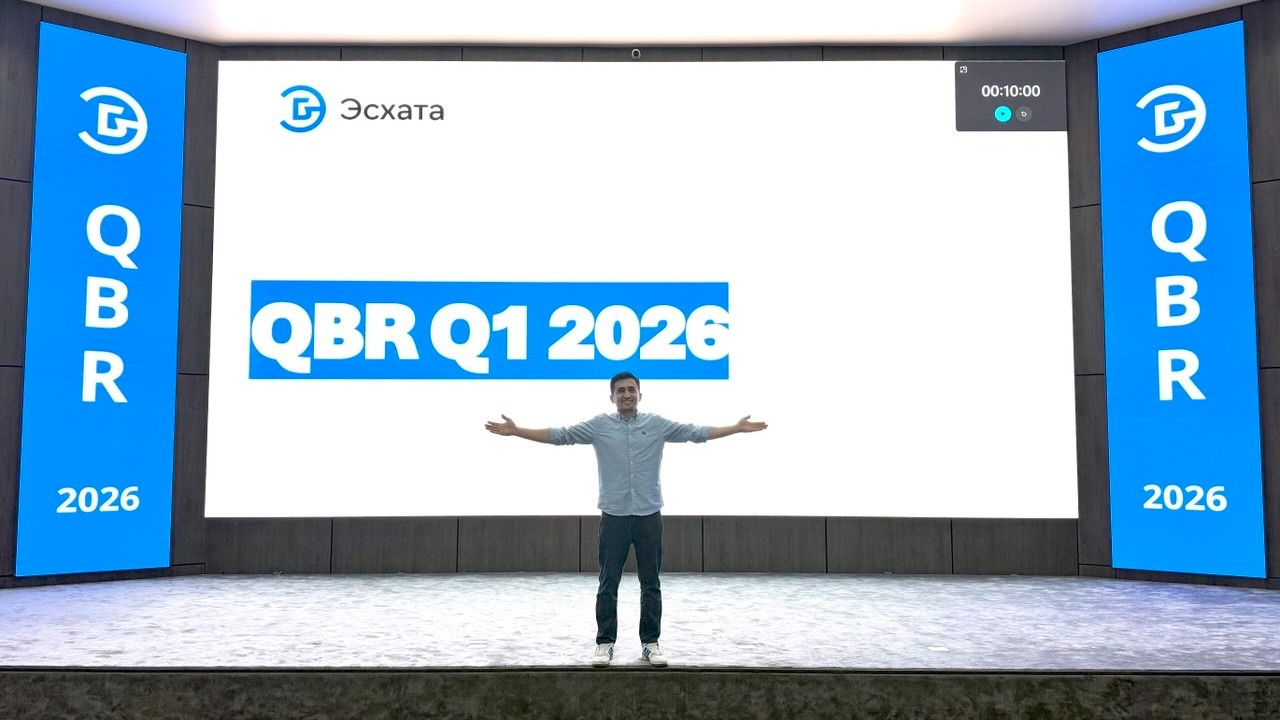
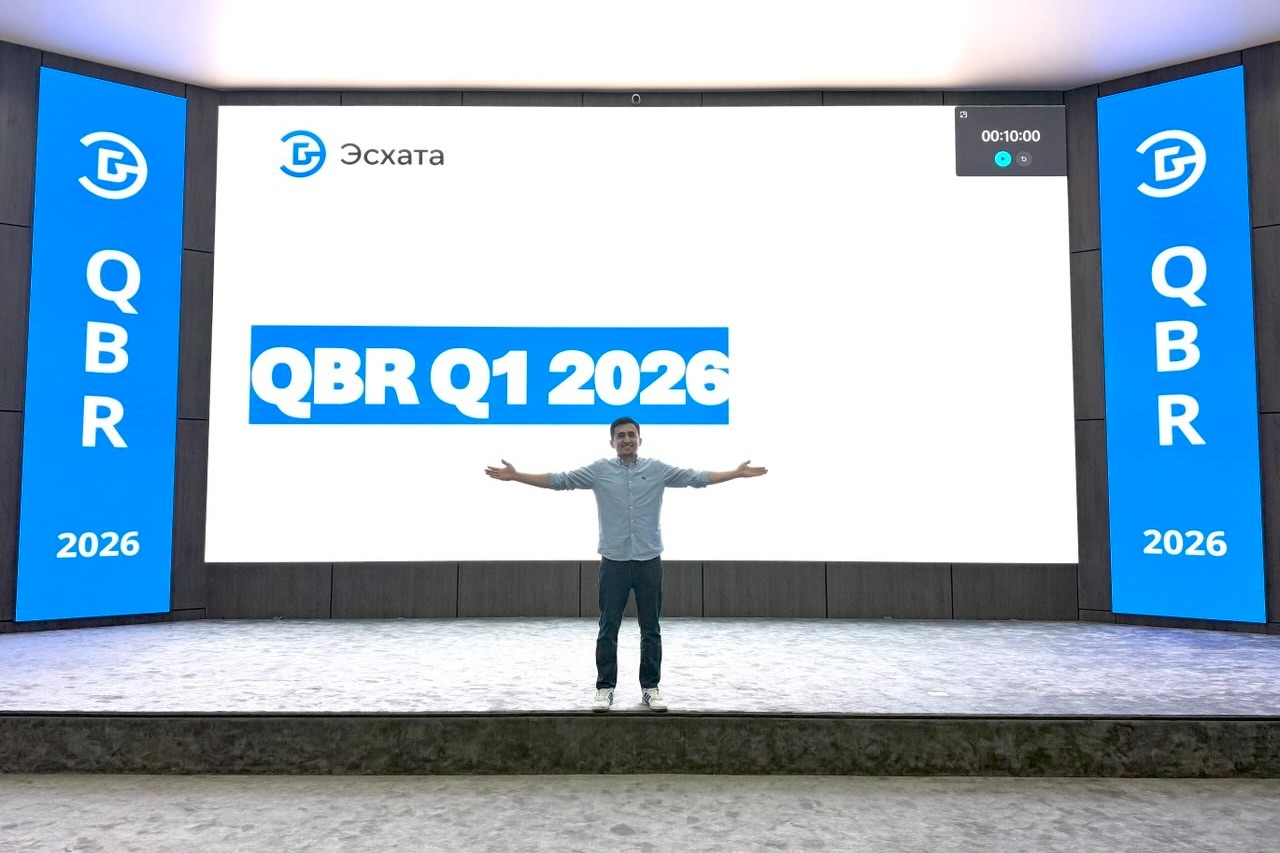
Фото QBR сбоку от текста, горизонтальное 3:2

diff --git a/index.html b/index.html
@@ -60,9 +60,9 @@ section { padding: 72px 0; border-top: 1px solid var(--line); }
 
 /* Первый экран */
 .hero { padding: 64px 0 56px; border-top: 0; }
-.hero-grid { display: grid; grid-template-columns: 1fr; gap: 40px; align-items: start; }
-.portrait { margin: 0; position: relative; grid-column: 1 / -1; }
-.portrait img { display: block; width: 100%; height: auto; aspect-ratio: 16 / 9; object-fit: cover; border-radius: 28px; box-shadow: 0 24px 50px rgba(26,45,41,.18); }
+.hero-grid { display: grid; grid-template-columns: 1fr 1fr; gap: 40px 48px; align-items: start; }
+.portrait { margin: 0; position: relative; align-self: center; }
+.portrait img { display: block; width: 100%; height: auto; aspect-ratio: 3 / 2; object-fit: cover; border-radius: 28px; box-shadow: 0 24px 50px rgba(26,45,41,.18); }
 .portrait figcaption { position: absolute; left: 14px; bottom: 14px; font-size: 13px; background: color-mix(in srgb, var(--surface) 88%, transparent); color: var(--ink); padding: 5px 12px; border-radius: 999px; backdrop-filter: blur(6px); }
 /* «Что я приношу» — во всю ширину под фото и текстом: вкладки слева, содержимое справа */
 .hero-grid .pillars { grid-column: 1 / -1; display: grid; grid-template-columns: 240px 1fr; gap: 8px 32px; align-items: start; }
@@ -76,7 +76,6 @@ section { padding: 72px 0; border-top: 1px solid var(--line); }
 .hero h1 { font-size: clamp(38px, 6vw, 68px); }
 .hero h1 span { display: block; }
 .role { font-size: clamp(19px, 2.2vw, 23px); margin: 22px 0 14px; max-width: 34ch; font-weight: 500; }
-.intro { max-width: 760px; }
 .hero .lead { margin-bottom: 28px; }
 .actions { display: flex; flex-wrap: wrap; gap: 12px; }
 
@@ -313,7 +312,7 @@ footer { padding: 24px 0 40px; color: var(--muted); font-size: 14px; }
     </div>
 
     <figure class="portrait">
-      <img src="img/photo-qbr.jpg" alt="Манучехр Мелибаев на сцене QBR Q1 2026 банка Эсхата" width="1280" height="720">
+      <img src="img/photo-qbr.jpg" alt="Манучехр Мелибаев на сцене QBR Q1 2026 банка Эсхата" width="1280" height="853">
       <figcaption>QBR Q1 2026, банк Эсхата</figcaption>
     </figure>
 
